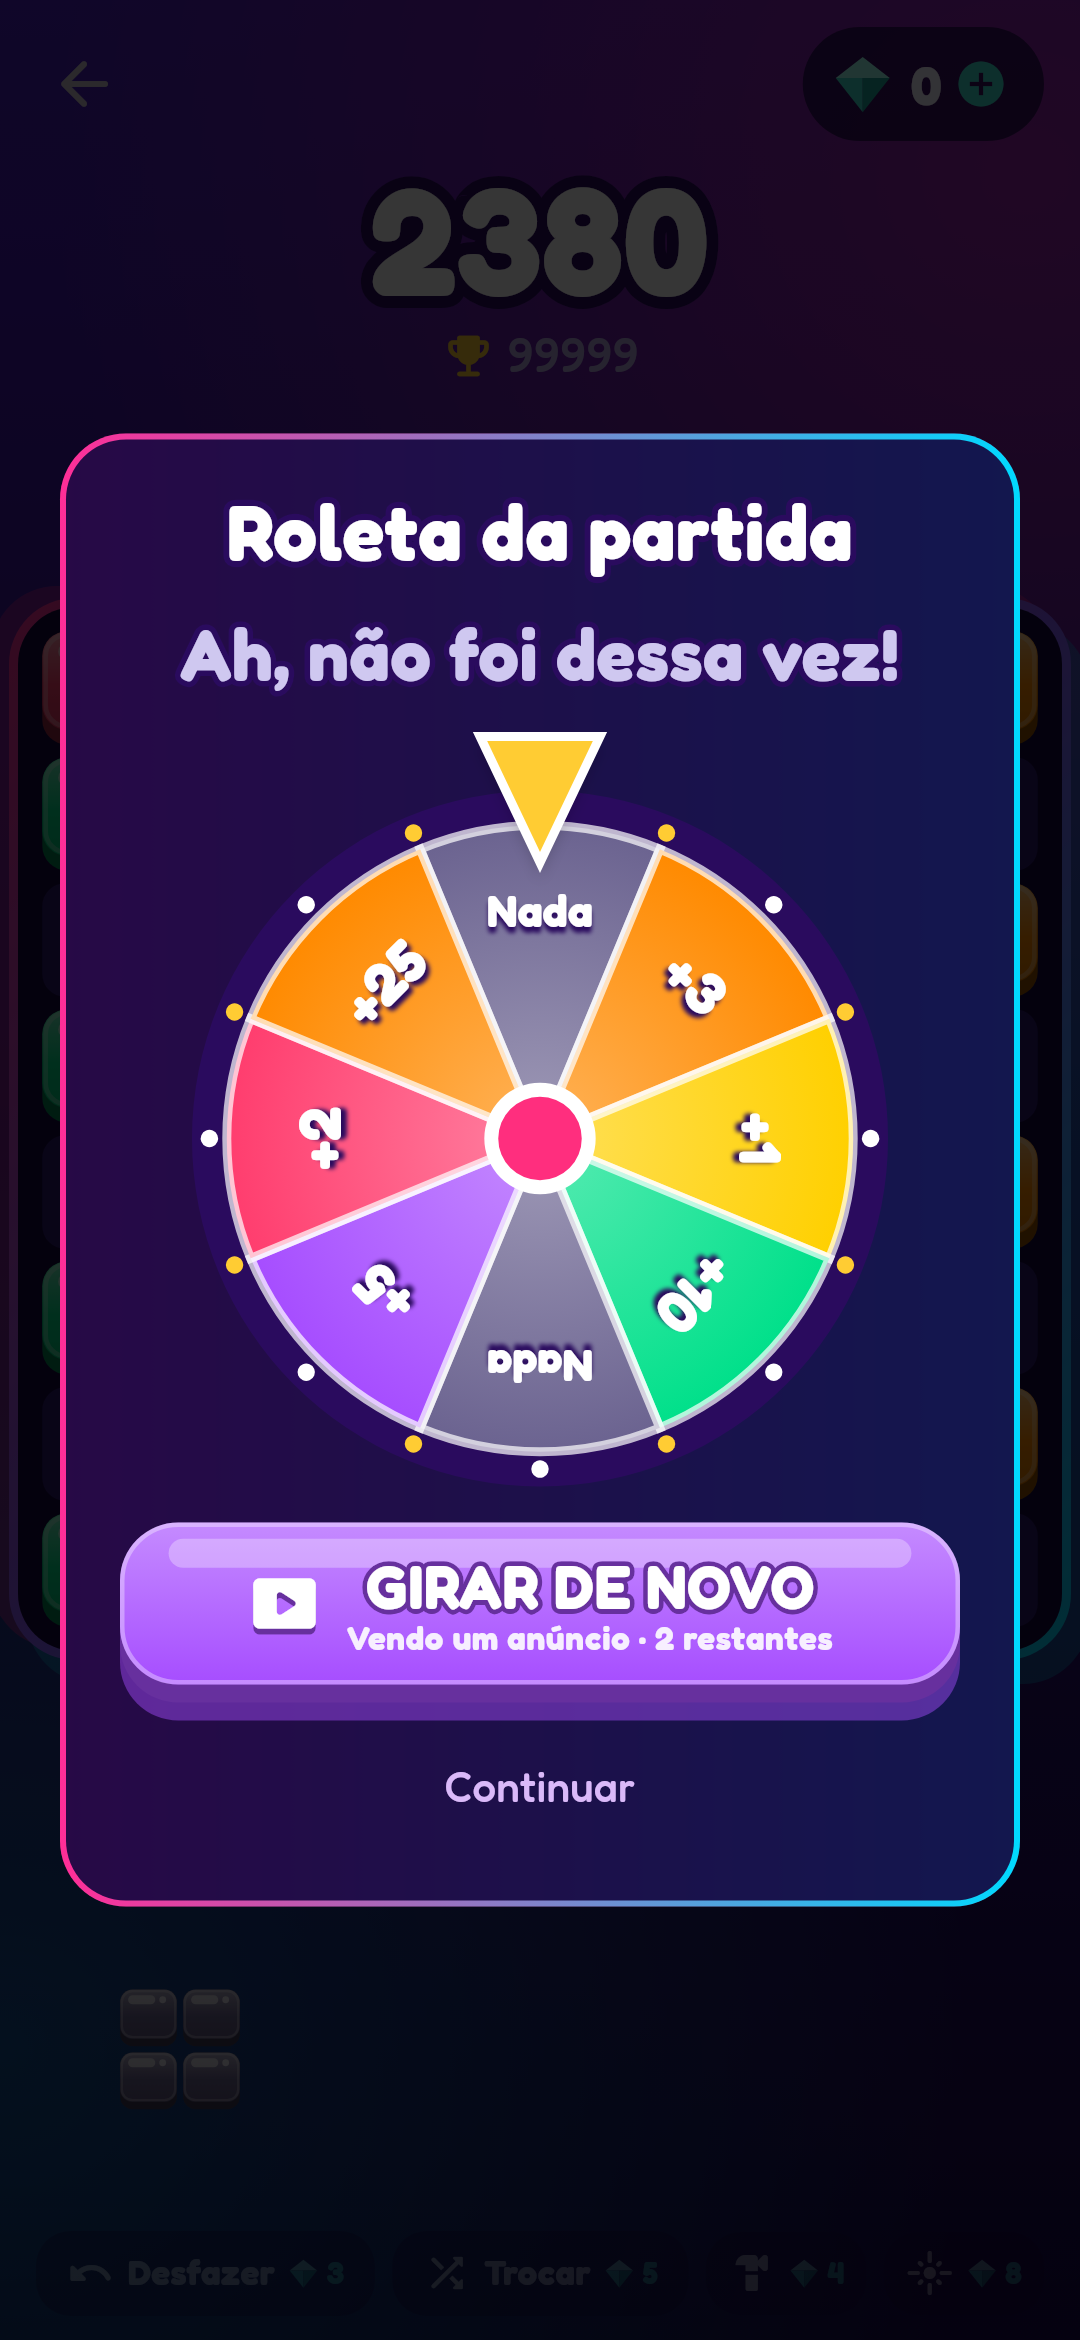
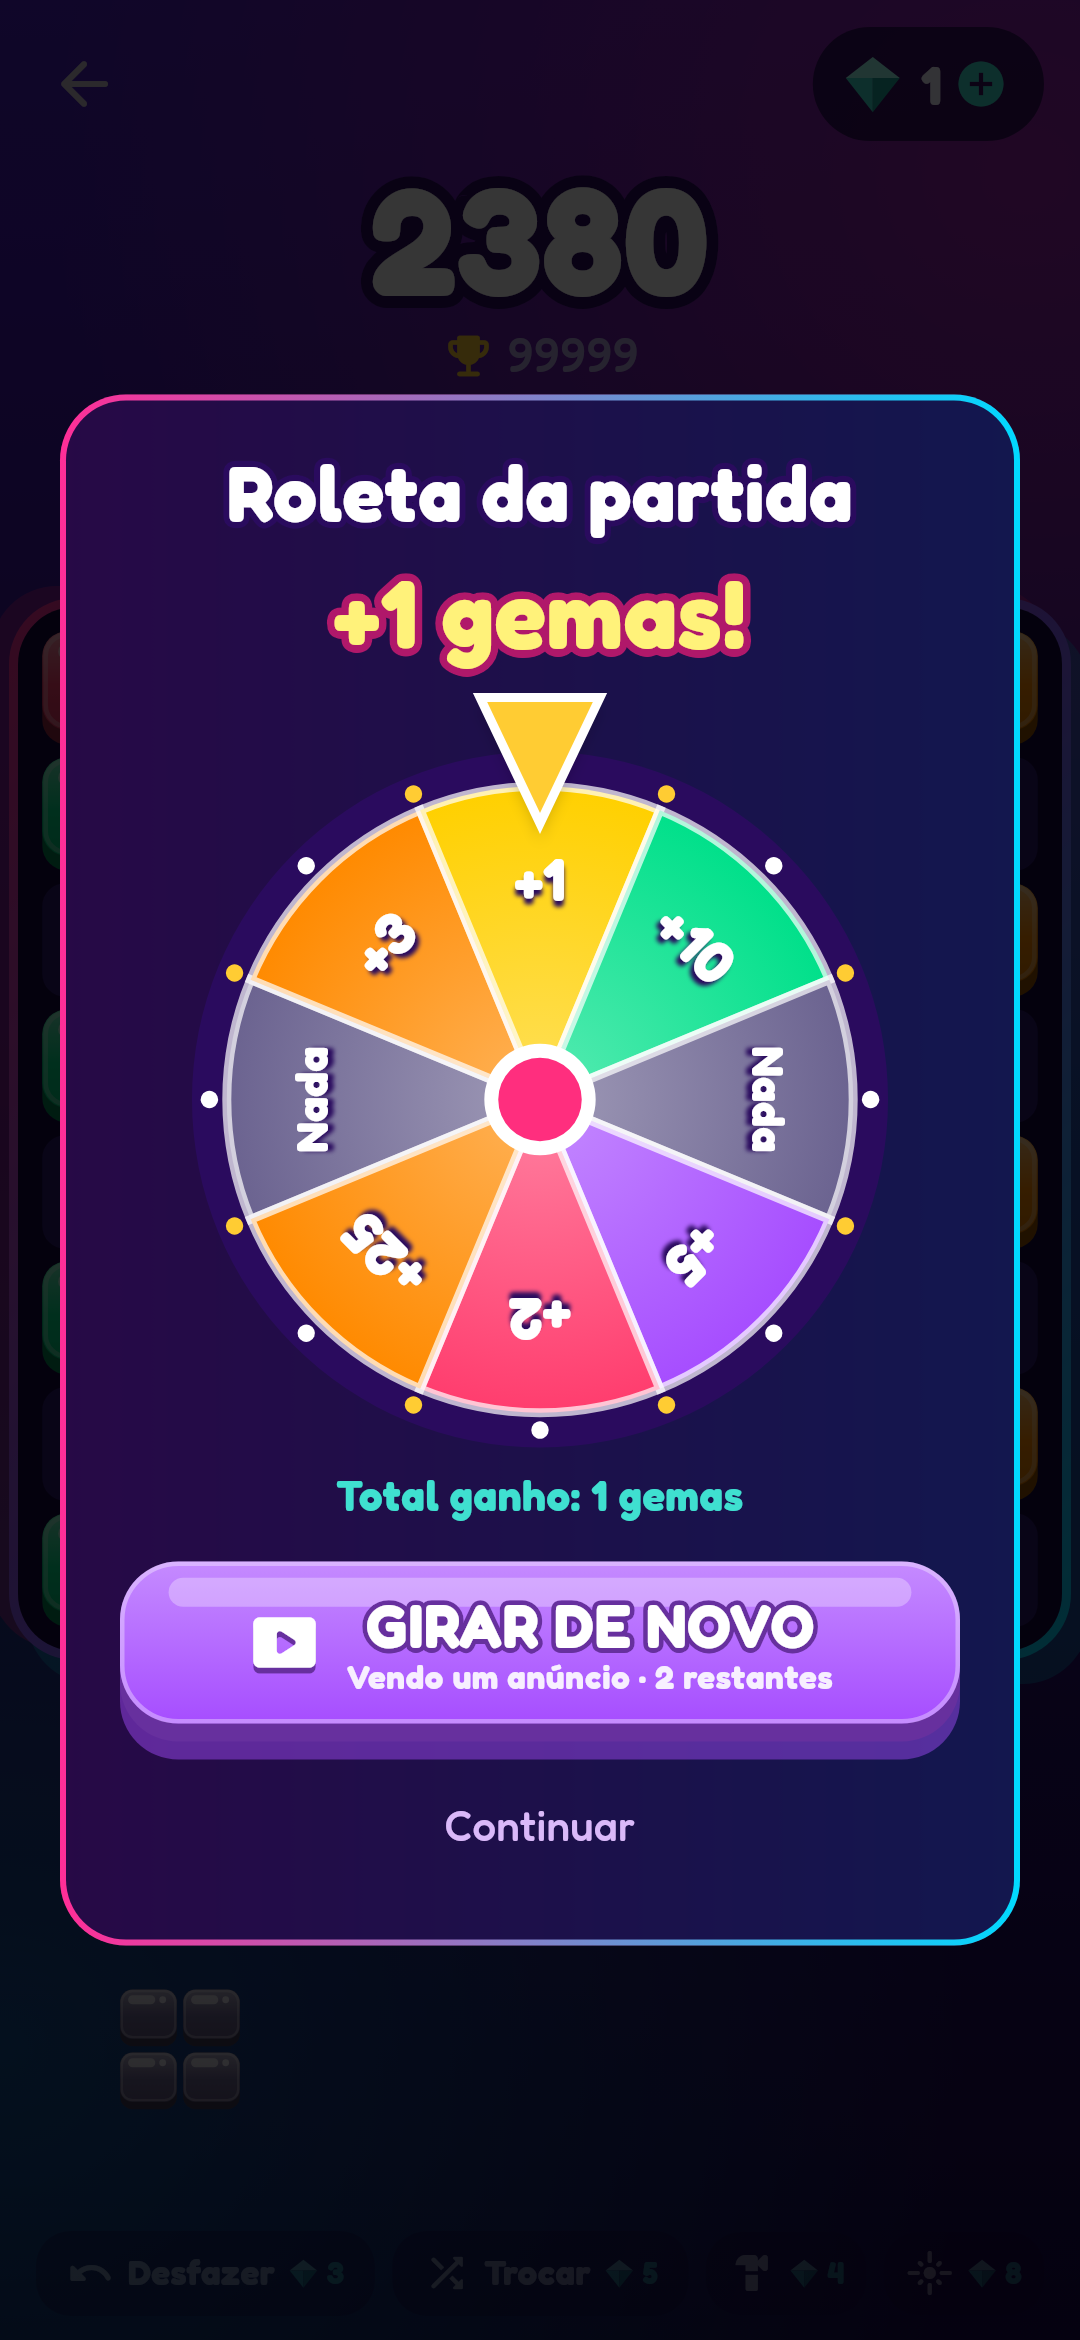
Presente do dia: diálogo rola e o título encolhe (botão não cobre mais o Dia 7)
Em tela pequena com fonte grande o botão 'Pegar' ficava por cima do cartão do Dia 7.
Capturas 21, 22 e 23 (360 dp normal, 360 dp fonte 1,5x e 320x600 fonte 1,5x).

Claude-Session: https://claude.ai/code/session_0113qfSKSdakLn1Fz3YtvNms

Changed region(s): [[0.0306, 0.156, 0.9472, 0.8423], [0.7639, 0.0312, 0.8556, 0.0624]]

diff --git a/app/test/telas_test.dart b/app/test/telas_test.dart
@@ -308,6 +308,23 @@ void main() {
     await capturar(tester, '20-inicio-fonte-grande');
   });
 
+  for (final (fonte, nome, tamanho) in [
+    (1.0, '21-presente-do-dia', const Size(360, 800)),
+    (1.5, '22-presente-do-dia-fonte-grande', const Size(360, 800)),
+    (1.5, '23-presente-do-dia-tela-pequena', const Size(320, 600)),
+  ]) {
+    testWidgets('presente do dia ao entrar ($nome)', (tester) async {
+      telaDeCelular(tester, tamanho: tamanho, fonte: fonte);
+      final s = await servicosDeTeste(presente: true);
+      await tester.pumpWidget(appDeTeste(s));
+      await tester.pump(const Duration(seconds: 1));
+      await tester.pump(const Duration(seconds: 1));
+      expect(find.text('Presente do dia'), findsOneWidget);
+      expect(tester.takeException(), isNull);
+      await capturar(tester, nome);
+    });
+  }
+
   testWidgets('tela pequena com fonte grande não estoura', (tester) async {
     telaDeCelular(tester, tamanho: const Size(320, 600), fonte: 1.3);
     final s = await servicosDeTeste();

diff --git a/app/lib/telas/inicio_tela.dart b/app/lib/telas/inicio_tela.dart
@@ -646,7 +646,12 @@ class _DialogoPresente extends StatelessWidget {
       final atual = hoje > 0 ? hoje : pego;
       return AlertDialog(
         backgroundColor: Cores.painel,
-        title: const Text('Presente do dia', textAlign: TextAlign.center),
+        // Com tela pequena e fonte grande o conteúdo rola em vez de o botão cobrir o último cartão.
+        scrollable: true,
+        title: const FittedBox(
+          fit: BoxFit.scaleDown,
+          child: Text('Presente do dia', textAlign: TextAlign.center),
+        ),
         content: Wrap(
           alignment: WrapAlignment.center,
           spacing: 8,

diff --git a/app/test/suporte/capturas.dart b/app/test/suporte/capturas.dart
@@ -38,6 +38,7 @@ Future<Servicos> servicosDeTeste({
   DateTime? hoje,
   bool dicas = false,
   bool roleta = false,
+  bool presente = false,
   CopiaAutomatica? copia,
   Lembrete lembrete = const SemLembrete(),
 }) async {
@@ -49,7 +50,7 @@ Future<Servicos> servicosDeTeste({
     anuncios: SemAnuncios(),
     compras: ComprasFicticias(progresso),
     hoje: agora,
-    mostrarPresenteAoAbrir: false,
+    mostrarPresenteAoAbrir: presente,
     mostrarDicas: dicas,
     roletaAposPartida: roleta,
     lembrete: lembrete,
